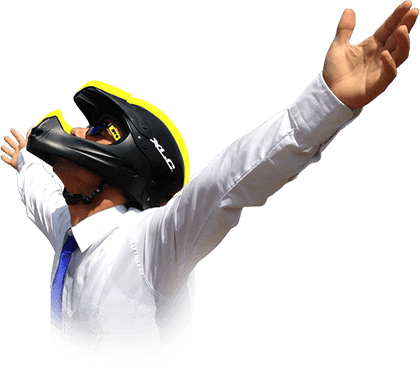
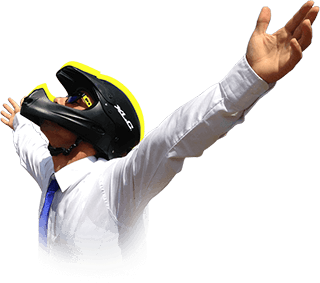
assets update

diff --git a/src/assets/css/homepage.css b/src/assets/css/homepage.css
@@ -1,1 +1,1 @@
[2 lines of base64/hex data omitted]

diff --git a/dist/index.html b/dist/index.html
@@ -89,10 +89,11 @@ View the source here: https://github.com/yasingencnet/yasingencnet
       <figure class="hero__figure">
         <picture>
           <source media="(max-width: 767px)" srcset="/assets/img/layout/hero-sm.webp" type="image/webp">
+          <source media="(max-width: 1919px)" srcset="/assets/img/layout/hero-md.webp" type="image/webp">
           <source media="(max-width: 767px)" srcset="/assets/img/layout/hero-sm.png" type="image/png">
-          <source media="(min-width: 768px)" srcset="/assets/img/layout/hero-xl.webp" type="image/webp">
-          <source media="(min-width: 768px)" srcset="/assets/img/layout/hero-xl.png" type="image/png">
-          <img class="hero__pic" src="/assets/img/layout/hero-xl.png" width="740" height="655" alt="A photo of Yasin with suit and downhill helmet" loading="eager">
+          <source media="(max-width: 1919px)" srcset="/assets/img/layout/hero-md.png" type="image/png">
+          <source media="(min-width: 1920px)" srcset="/assets/img/layout/hero-lg.webp" type="image/webp">
+          <img class="hero__pic" src="/assets/img/layout/hero-lg.png" alt="A photo of Yasin with suit and downhill helmet" loading="eager">
         </picture>
       </figure>
       <footer class="hero__footer">♥</footer>

diff --git a/src/assets/scss/02_component/hero.scss b/src/assets/scss/02_component/hero.scss
@@ -67,12 +67,9 @@
   transform: translateY(-120px);
   pointer-events: none;
   margin-left: auto;
-  height: auto;
-  @include respond-below(xl) {
+  max-width: 100%;
+  @include respond-below(xxl) {
     transform: none;
-  }
-  @include respond-between(xs, md) {
-    max-width: 420px;
   }
 }
 .hero__footer{

diff --git a/src/assets/scss/00_config/media-quaries.scss b/src/assets/scss/00_config/media-quaries.scss
@@ -13,6 +13,7 @@ $breakpoints: (
         md: 992px,
         lg: 1200px,
         xl: 1600px,
+        xxl: 1920px,
 );
 
 
